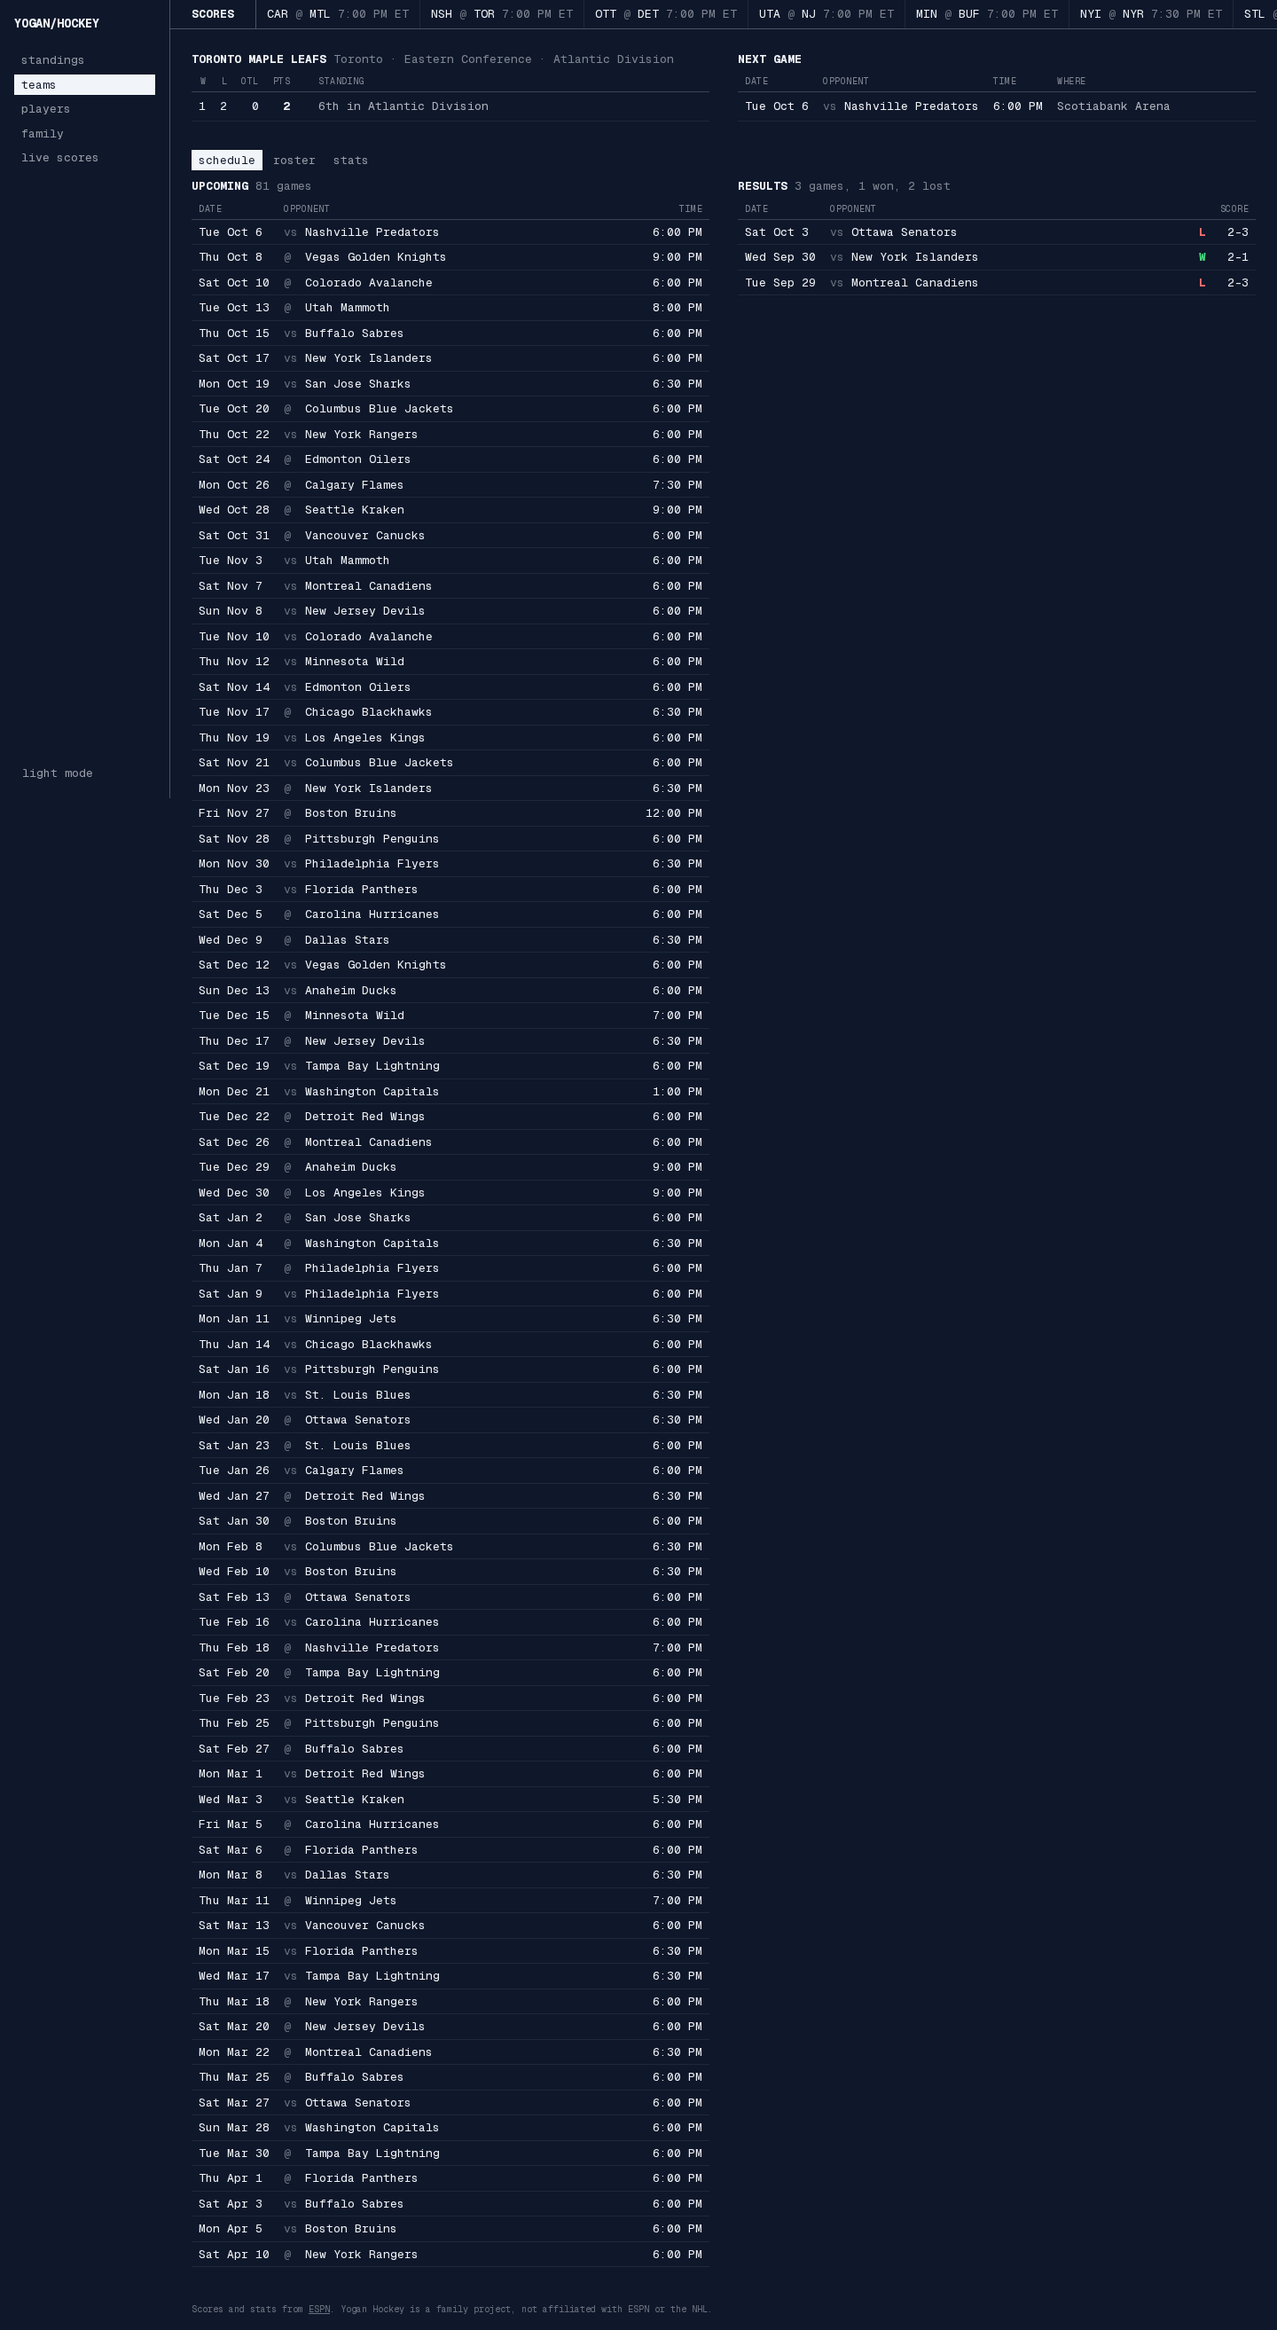
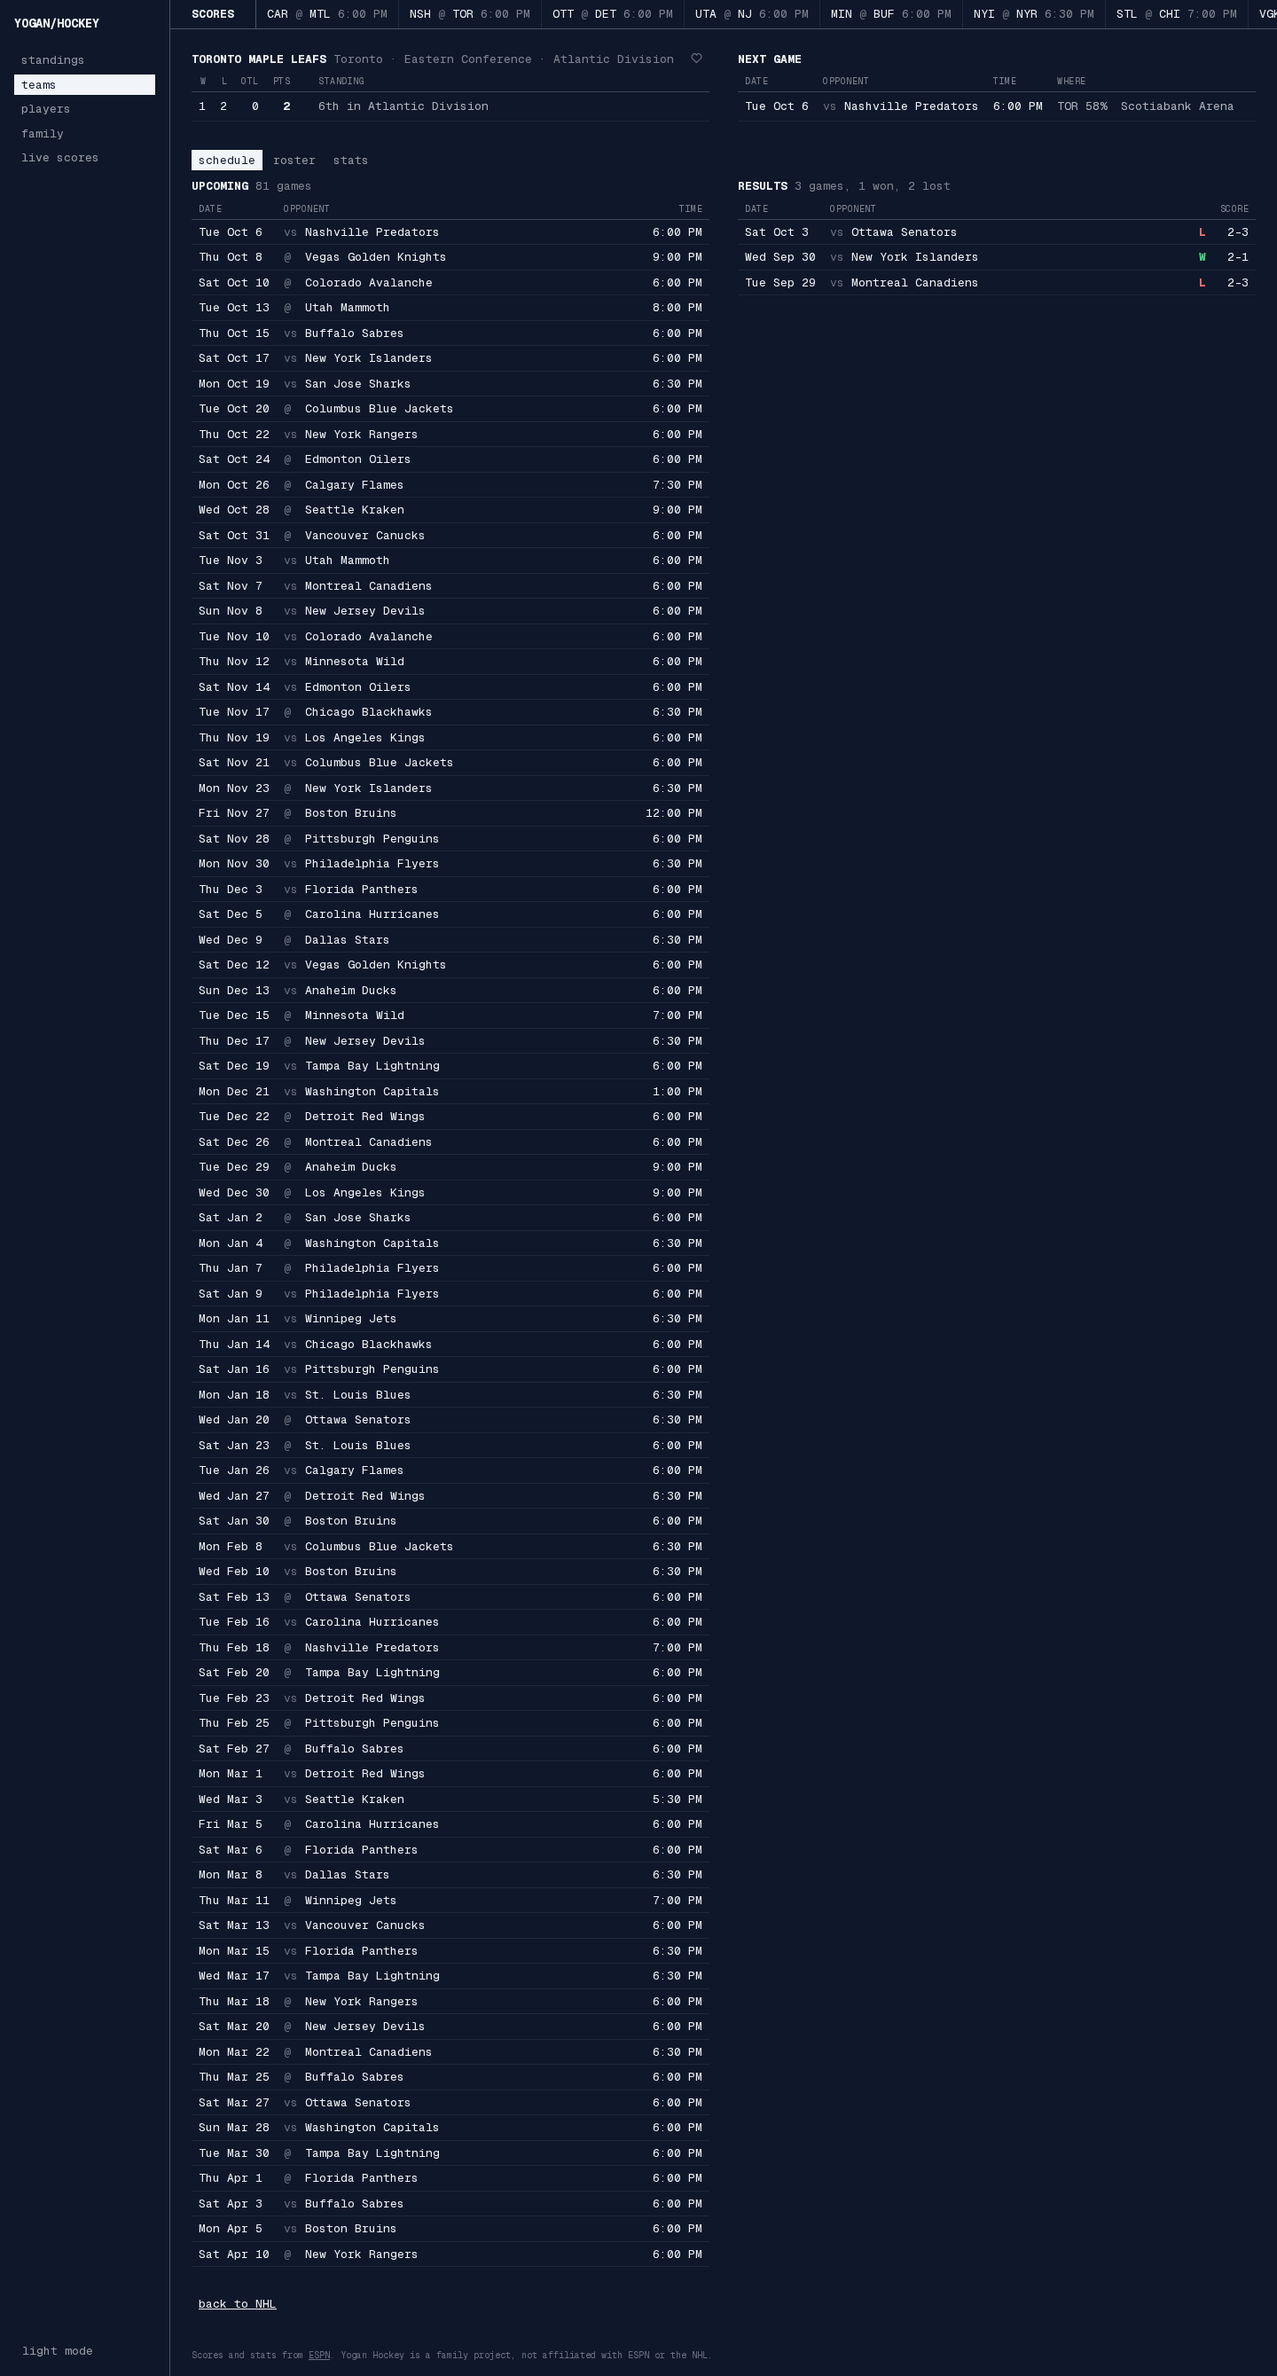
Team page: the pick on its game, and a link back to /nhl (#83)
The page's server component reads today's picks (readSlatePicks) and hands
them to TeamNow. The "Playing now" row gets them as /nhl/live's rows do; the
Next Game card shows the line only for a game on the Scoreboard's slate
(nextGamePick), ahead of the venue, and beside the time on a phone so the row
keeps its height. A failed or missing pick shows nothing.

Every tab ends with "back to NHL", as the player page has "back to players".

The team smoke test drives the Scoreboard's socket for the off-slate and live
cases; the shots in docs/design/team are retaken.

diff --git a/e2e/team.spec.ts b/e2e/team.spec.ts
@@ -6,6 +6,12 @@ const tabs = (page: Page) => page.getByRole("navigation", { name: "Team" });
 const section = (page: Page, title: RegExp) =>
   page.locator("main section").filter({ has: page.getByRole("heading", { name: title }) });
 const rows = (page: Page, title: RegExp) => section(page, title).locator("tbody tr");
+// The foot of the page, on every tab: the way back to the league.
+const back = (page: Page) => page.getByRole("main").getByRole("link", { name: "back to NHL" });
+
+// Nashville at Toronto, Toronto's next game and on the recorded slate.
+const GAME_ID = "401892449";
+type Slate = { games: { id: string; [field: string]: unknown }[]; [field: string]: unknown };
 
 test("a team's page shows each tab from a pasted URL, titled with the team's name", async ({
   browser,
@@ -16,13 +22,30 @@ test("a team's page shows each tab from a pasted URL, titled with the team's nam
     url: string,
     check: (page: Page) => Promise<void>,
     options: BrowserContextOptions = {},
+    before: (page: Page) => Promise<void> = async () => {},
   ) => {
     const context = await browser.newContext(options);
     const page = await context.newPage();
+    await before(page);
     await page.goto(url);
     await check(page);
     await context.close();
   };
+
+  // The recorded slate never changes, so the test stands between the first page and the
+  // Scoreboard, as `live.spec.ts` does, and later sends a slate of its own.
+  let slate: Slate | undefined;
+  let pushState: (state: Slate) => void = () => {};
+  const standBetween = (page: Page) =>
+    page.routeWebSocket(/\/agents\/scoreboard-agent\/main/, (socket) => {
+      const agent = socket.connectToServer();
+      agent.onMessage((message) => {
+        const parsed = JSON.parse(String(message));
+        if (parsed.type === "cf_agent_state") slate = parsed.state;
+        socket.send(message);
+      });
+      pushState = (state) => socket.send(JSON.stringify({ type: "cf_agent_state", state }));
+    });
 
   // Toronto as recorded (fixture mode): three games played, 81 to play, Nashville next.
   await paste(
@@ -45,10 +68,13 @@ test("a team's page shows each tab from a pasted URL, titled with the team's nam
 
       // The Next Game card links to the scheduled game's page, at the visitor's own time.
       const next = rows(page, /^Next game/);
-      await expect(next.getByRole("link")).toHaveAttribute("href", "/nhl/games/401892449");
+      await expect(next.getByRole("link")).toHaveAttribute("href", `/nhl/games/${GAME_ID}`);
       await expect(next).toContainText("4:00 PM");
+      // The game is on today's slate: its pick as the dashboard's row has it, then where.
+      await expect(next.getByRole("cell").last()).toHaveText("TOR 58%Scotiabank Arena");
       // Nobody is playing in the recorded slate, so there is no banner.
       await expect(section(page, /^Playing now/)).toHaveCount(0);
+      await expect(back(page)).toHaveAttribute("href", "/nhl");
 
       await expect(rows(page, /^Upcoming/)).toHaveCount(81);
       await expect(rows(page, /^Upcoming/).first()).toHaveText(/Tue Oct 6.*Nashville.*4:00 PM/);
@@ -57,8 +83,29 @@ test("a team's page shows each tab from a pasted URL, titled with the team's nam
       const latest = rows(page, /^Results/).first();
       await expect(latest).toHaveText(/Sat Oct 3.*Ottawa Senators.*L.*2-3/);
       await expect(latest.getByRole("link")).toHaveAttribute("href", "/nhl/games/401892434");
+
+      // The Scoreboard's slate without the game: the card stays as it was, without a pick.
+      await expect.poll(() => slate, { message: "the socket delivered the slate" }).toBeDefined();
+      const recorded = slate as Slate;
+      pushState({ ...recorded, games: recorded.games.filter((game) => game.id !== GAME_ID) });
+      await expect(next.getByRole("cell").last()).toHaveText("Scotiabank Arena");
+
+      // The game starts: the banner takes the card's place, its row with the pick like any other.
+      pushState({
+        ...recorded,
+        games: recorded.games.map((game) =>
+          game.id === GAME_ID ? { ...game, status: "live", period: 1, clock: "20:00" } : game,
+        ),
+      });
+      const playing = rows(page, /^Playing now/);
+      await expect(playing.getByRole("link")).toHaveAttribute("href", `/nhl/games/${GAME_ID}`);
+      await expect(playing.getByRole("cell").last()).toHaveText(
+        "TOR 58%Scotiabank Arena · ESPN+, Scripps Sports",
+      );
+      await expect(section(page, /^Next game/)).toHaveCount(0);
     },
     { timezoneId: "America/Los_Angeles" },
+    standBetween,
   );
 
   await paste("/nhl/teams/21?tab=roster", async (page) => {
@@ -78,6 +125,7 @@ test("a team's page shows each tab from a pasted URL, titled with the team's nam
       "href",
       "/players/4024123",
     );
+    await expect(back(page)).toHaveAttribute("href", "/nhl");
   });
 
   await paste("/nhl/teams/21?tab=stats", async (page) => {
@@ -95,6 +143,7 @@ test("a team's page shows each tab from a pasted URL, titled with the team's nam
       "0-0-0",
       "",
     ]);
+    await expect(back(page)).toHaveAttribute("href", "/nhl");
   });
 
   // An id that is no team's: "team not found", with the way back to the teams.

diff --git a/apps/web/components/team/team-now.tsx b/apps/web/components/team/team-now.tsx
@@ -3,6 +3,7 @@
 import type { Game } from "@yogan-hockey/schemas";
 import {
   Ledger,
+  LedgerAside,
   LedgerBody,
   LedgerCell,
   LedgerColumn,
@@ -12,8 +13,9 @@ import {
 } from "@yogan-hockey/ui/components/ledger";
 import { Section, SectionHeader } from "@yogan-hockey/ui/components/section";
 import Link from "next/link";
+import { pickNote } from "../../lib/picks";
 import { gameHref } from "../../lib/scoreboard-view";
-import { liveGame, nextGame, scheduleRow } from "../../lib/team-schedule";
+import { liveGame, nextGame, nextGamePick, scheduleRow } from "../../lib/team-schedule";
 import { LocalTime } from "../local-time";
 import { TeamName } from "../nhl/team-name";
 import { GameLedger } from "../scoreboard/game-ledger";
@@ -27,8 +29,19 @@ import { Versus } from "./versus";
  *
  * `listed` is the next game as the cached team page has it, which can be an hour old: the
  * Scoreboard says whether that game has started since.
+ *
+ * `picks` is each game of today's slate's pick in one line, by game id, as the page's server
+ * component read them (see `LiveScores`). Both the banner's row and the card show the team's.
  */
-export function TeamNow({ teamId, listed }: { teamId: string; listed: Game | null }) {
+export function TeamNow({
+  teamId,
+  listed,
+  picks = {},
+}: {
+  teamId: string;
+  listed: Game | null;
+  picks?: Readonly<Record<string, string>>;
+}) {
   const scoreboard = useScoreboard();
   const live = liveGame(teamId, scoreboard.games);
   if (live != null) {
@@ -36,17 +49,22 @@ export function TeamNow({ teamId, listed }: { teamId: string; listed: Game | nul
       // The game ledger's columns are fixed and need the page's whole width beside a header.
       <Section className="xl:col-span-2">
         <SectionHeader title="Playing now" />
-        <GameLedger games={[live]} />
+        <GameLedger games={[live]} pick={(game) => pickNote(picks[game.id], game.status)} />
       </Section>
     );
   }
 
   const next = nextGame(listed, scoreboard);
-  return next == null ? null : <NextGame teamId={teamId} game={next} />;
+  return next == null ? null : (
+    <NextGame teamId={teamId} game={next} pick={nextGamePick(next, picks, scoreboard.games)} />
+  );
 }
 
-/** The Next Game card: a ruled block of one row, linking to the scheduled game's page. */
-function NextGame({ teamId, game }: { teamId: string; game: Game }) {
+/**
+ * The Next Game card: a ruled block of one row, linking to the scheduled game's page. `pick` is
+ * the game's pick in one line, drawn as a game row's note has it: ahead of where it is played.
+ */
+function NextGame({ teamId, game, pick }: { teamId: string; game: Game; pick?: string }) {
   const { opponent, home } = scheduleRow(teamId, game);
   return (
     <Section>
@@ -71,8 +89,18 @@ function NextGame({ teamId, game }: { teamId: string; game: Game }) {
             </LedgerCell>
             <LedgerCell className="whitespace-nowrap">
               <LocalTime at={game.startTime} show="time" />
+              {/*
+                A phone has no last column: the pick goes beside the time, on its line. The gap
+                is what leaves the longest row ("Wed Oct 28", "10:00 PM", "pick pending") in 390.
+              */}
+              {pick && <LedgerAside className="ml-2 sm:hidden">{pick}</LedgerAside>}
             </LedgerCell>
             <LedgerCell tone="note" className="whitespace-nowrap max-sm:hidden">
+              {pick && (
+                <span data-slot="game-pick" className="mr-4">
+                  {pick}
+                </span>
+              )}
               {game.venue}
             </LedgerCell>
           </LedgerRow>

diff --git a/apps/web/app/nhl/teams/[id]/page.tsx b/apps/web/app/nhl/teams/[id]/page.tsx
@@ -15,6 +15,7 @@ import { findTeam } from "../../../../lib/find-team";
 import { rosterWithLegend } from "../../../../lib/legend";
 import type { Query } from "../../../../lib/nhl-page";
 import { sortRoster } from "../../../../lib/roster";
+import { readSlatePicks } from "../../../../lib/slate-picks";
 import { readTeamPage, TEAM_TABS, teamPageHref } from "../../../../lib/team-page";
 import { scheduleView } from "../../../../lib/team-schedule";
 
@@ -38,7 +39,8 @@ export default async function TeamPage({ params, searchParams }: Props) {
   if (detail == null) notFound();
 
   const { tab } = readTeamPage(query);
-  const standings = await cachedStandings();
+  // The picks are today's slate's, from D1; a read that fails gives none (`readSlatePicks`).
+  const [standings, { picks }] = await Promise.all([cachedStandings(), readSlatePicks()]);
   const standing = standings.rows.find((row) => row.team.id === id) ?? null;
 
   return (
@@ -57,7 +59,7 @@ export default async function TeamPage({ params, searchParams }: Props) {
             />
           }
         />
-        <TeamNow teamId={id} listed={detail.nextGame} />
+        <TeamNow teamId={id} listed={detail.nextGame} picks={picks} />
       </div>
       <div className="space-y-2">
         <UrlTabs
@@ -78,6 +80,12 @@ export default async function TeamPage({ params, searchParams }: Props) {
           <Schedule teamId={id} />
         )}
       </div>
+      {/* The foot of the page on every tab, as the player page has "back to players". */}
+      <p className="px-2">
+        <Link href="/nhl" className="underline">
+          back to NHL
+        </Link>
+      </p>
     </>
   );
 }

diff --git a/apps/web/lib/team-schedule.test.ts b/apps/web/lib/team-schedule.test.ts
@@ -1,6 +1,6 @@
 import type { Game, GameSide, GameStatus } from "@yogan-hockey/schemas";
 import { describe, expect, it } from "vitest";
-import { liveGame, nextGame, scheduleView } from "./team-schedule";
+import { liveGame, nextGame, nextGamePick, scheduleView } from "./team-schedule";
 
 const side = (id: string, abbreviation: string, score = 0, winner = false): GameSide => ({
   id,
@@ -182,5 +182,25 @@ describe("the team's next game", () => {
     const late = game("9", "2026-10-09T02:00:00Z", "scheduled", "away");
     expect(nextGame(late, slate("2026-10-08"))?.id).toBe("9");
     expect(nextGame(late, slate("2026-10-09"))).toBeNull();
+  });
+});
+
+describe("the pick on the team's next game", () => {
+  const next = game("8", "2026-10-06T23:00:00Z", "scheduled", "home");
+  const other = game("7", "2026-10-06T23:00:00Z", "scheduled", "away");
+
+  it("is the slate's line for that game, a made pick or a pending one", () => {
+    expect(nextGamePick(next, { "8": "TOR 58%" }, [other, next])).toBe("TOR 58%");
+    expect(nextGamePick(next, { "8": "pick pending" }, [next])).toBe("pick pending");
+  });
+
+  it("is nothing for a game with no line: a failed Prediction, or picks that were not read", () => {
+    expect(nextGamePick(next, { "7": "NSH 55%" }, [other, next])).toBeUndefined();
+    expect(nextGamePick(next, {}, [next])).toBeUndefined();
+  });
+
+  it("is nothing for a game that is not on today's slate, whatever the picks say", () => {
+    expect(nextGamePick(next, { "8": "TOR 58%" }, [other])).toBeUndefined();
+    expect(nextGamePick(next, { "8": "TOR 58%" }, [])).toBeUndefined();
   });
 });

diff --git a/apps/web/lib/team-schedule.ts b/apps/web/lib/team-schedule.ts
@@ -105,3 +105,16 @@ export function nextGame(
   if (today != null) return today.status === "scheduled" ? listed : null;
   return date != null && slateDate(listed.startTime) < date ? null : listed;
 }
+
+/**
+ * The pick to show on the team's next game: the slate's line for it ("TOR 58%", "pick pending"),
+ * and nothing for a game with no line or one that is not on today's slate. `picks` is as old as
+ * the page's last render, so it is the Scoreboard's slate now that says which games are today's.
+ */
+export function nextGamePick(
+  next: Pick<Game, "id">,
+  picks: Readonly<Record<string, string>>,
+  slate: readonly Pick<ScoreboardGame, "id">[],
+): string | undefined {
+  return slate.some((game) => game.id === next.id) ? picks[next.id] : undefined;
+}

diff --git a/docs/agents/build-notes.md b/docs/agents/build-notes.md
@@ -304,6 +304,9 @@ The Worker `yogan-hockey` has been live on `hockey.yogan.dev` since 2026-10-06, 
 - **The dev server's HTML is four times the size of production's** (980 KB against 222 KB for the 84-game schedule): React's development payload carries every server component's props. Measure page weight on `pnpm build` and `pnpm exec vite preview --port <PORT> --strictPort` in `apps/web`; build with `ESPN_FIXTURES=1` to preview fixture mode.
 - **No recorded slate has a live game**, so the "Playing now" banner cannot be reached in fixture mode. The shots in `docs/design/team/live-banner-*` were taken with one recorded game made live inside `TeamNow` for the shot and changed back. `StaticScoreboard` around a component is the way to do it in a sample page.
 - **Chromium started by a script needs `TMPDIR` too.** Without it `page.evaluate` fails with "Target crashed" on the first page.
+- **The banner can be reached without touching `TeamNow`** (#83): stand between the page and the Scoreboard's socket with `page.routeWebSocket` and push the recorded slate with 401892449 made live, as `e2e/team.spec.ts` does. The `live-banner-*` shots have been taken that way since, by a throwaway Playwright script.
+- **The team page's picks** (#83) are `readSlatePicks()` in the page's server component, handed to `TeamNow`: the banner's row gets them as `/nhl/live`'s rows do, and the Next Game card asks `nextGamePick` (`lib/team-schedule.ts`), which gives a line only for a game on the Scoreboard's slate now. On the card the pick leads the "where" cell, as in a game row's note; on a phone, where that column is hidden, it stands beside the time on the same line, so the row keeps its height (32.5px). Its gap is `ml-2` because the longest row ("Wed Oct 28", "10:00 PM", "pick pending") then ends 2px inside the 358px ledger at 390.
+- **The team page's shots are taken with picks seeded** (`/skeleton/picks`, or after a Playwright run), each at the page's own height: `node scripts/screenshot.mjs <url> <out> <width> <scheme> <height>`, the height from `--eval=document.documentElement.scrollHeight`.
 ## Server Actions, `searchParams` and links (#44)
 
 `apps/web/app/players/` is the worked example: `page.tsx`, `actions.ts`, `player-search.tsx`.
